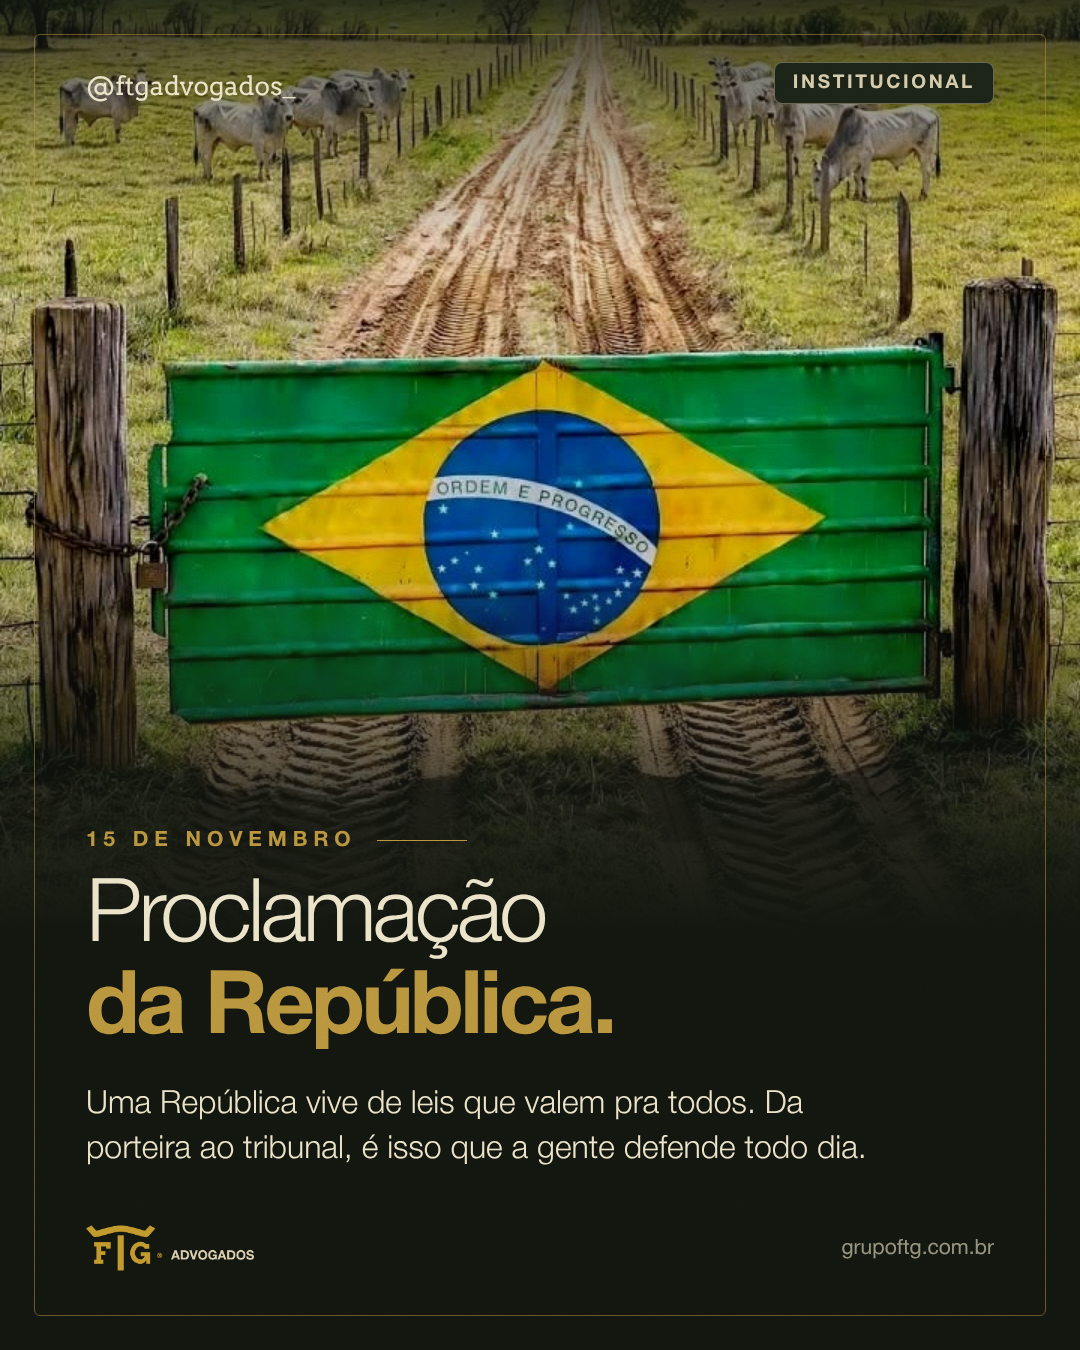
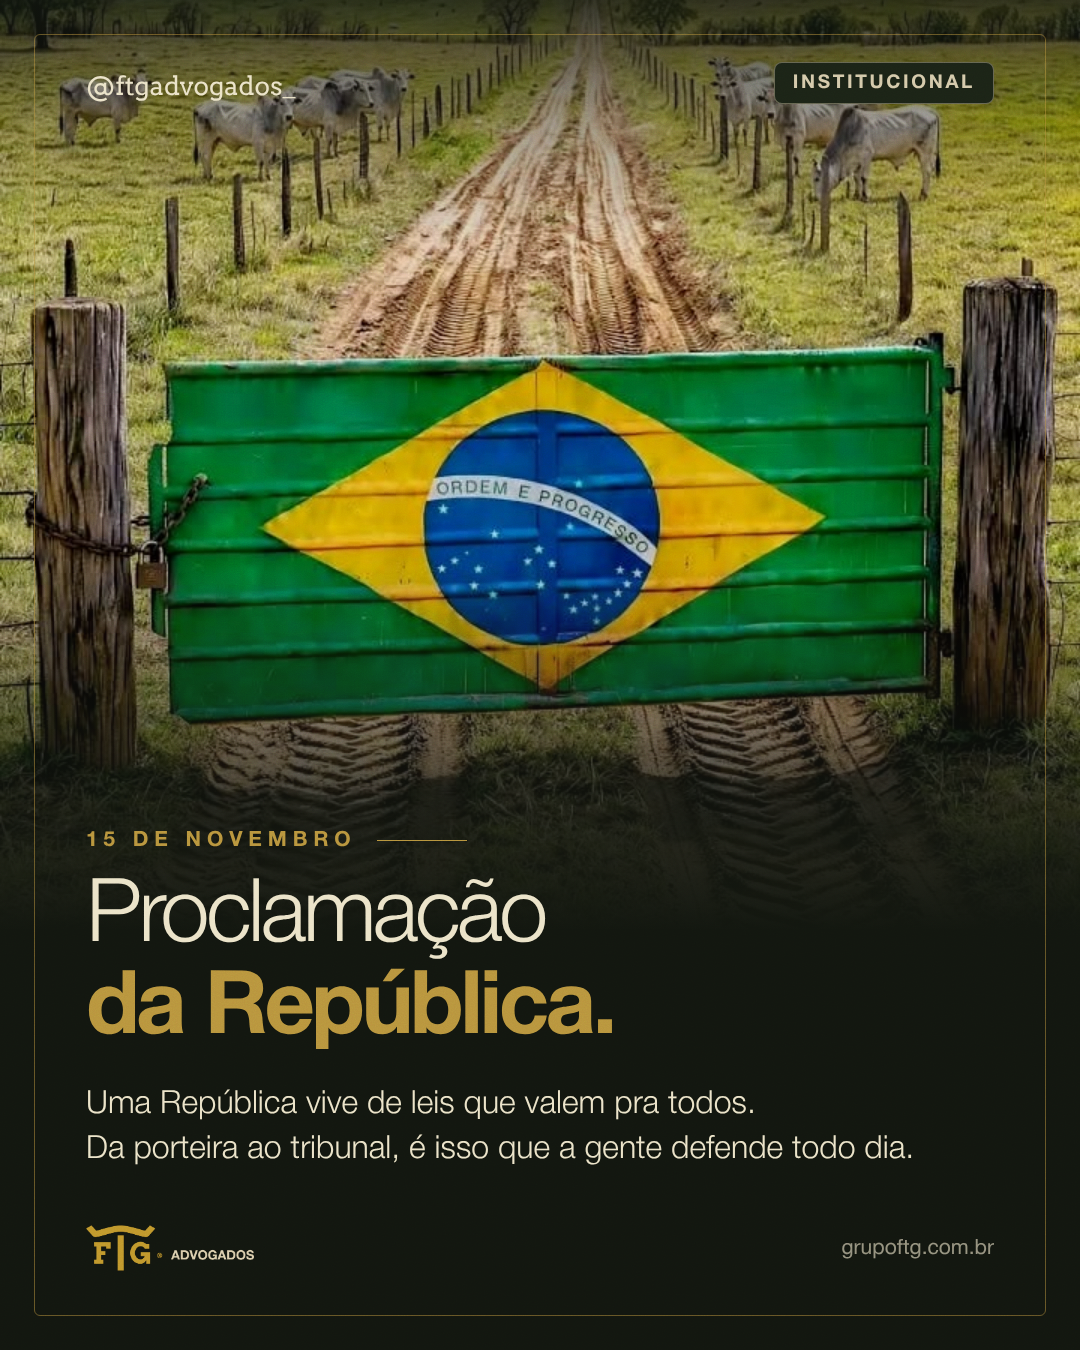
15/11: quebra antes de "Da porteira"
Claude-Session: https://claude.ai/code/session_01P4d7pDXSyhkanGB3aZGg4D

Changed region(s): [[0.0917, 0.8089, 0.8556, 0.8711]]

diff --git a/docs/gorayeb/modelos/proclamacao-republica.html b/docs/gorayeb/modelos/proclamacao-republica.html
@@ -16,7 +16,7 @@
 .kick{display:flex;align-items:center;gap:20px;font:700 21px HN;letter-spacing:.28em;text-transform:uppercase;color:#b8943d}
 .kick::after{content:"";width:90px;height:1.5px;background:#b8943d}
 h1{font:300 88px/1.04 HN;letter-spacing:-.04em;margin-top:22px} h1 b{font-weight:700;color:#b8943d}
-.bloco p{font:300 32px/1.42 HN;margin-top:26px;width:820px}
+.bloco p{font:300 32px/1.42 HN;margin-top:26px;width:908px}
 .pe{position:absolute;left:86px;right:86px;bottom:74px;display:flex;justify-content:space-between;align-items:center}
 .pe img{height:56px} .pe span{font:400 21px HN;opacity:.6}
 </style></head><body>
@@ -24,6 +24,6 @@ h1{font:300 88px/1.04 HN;letter-spacing:-.04em;margin-top:22px} h1 b{font-weight
  <div class="arroba">@ftgadvogados_</div><span class="selo">Institucional</span>
  <div class="bloco"><div class="kick">15 de novembro</div>
  <h1>Proclamação<br><b>da República.</b></h1>
- <p>Uma República vive de leis que valem pra todos. Da porteira ao tribunal, é isso que a gente defende todo dia.</p></div>
+ <p>Uma República vive de leis que valem pra todos.<br>Da porteira ao tribunal, é isso que a gente defende todo dia.</p></div>
  <div class="pe"><img src="file:///home/user/calendario/docs/gorayeb/assets/logo-horizontal-claro.png"><span>grupoftg.com.br</span></div>
 </div></body></html>
